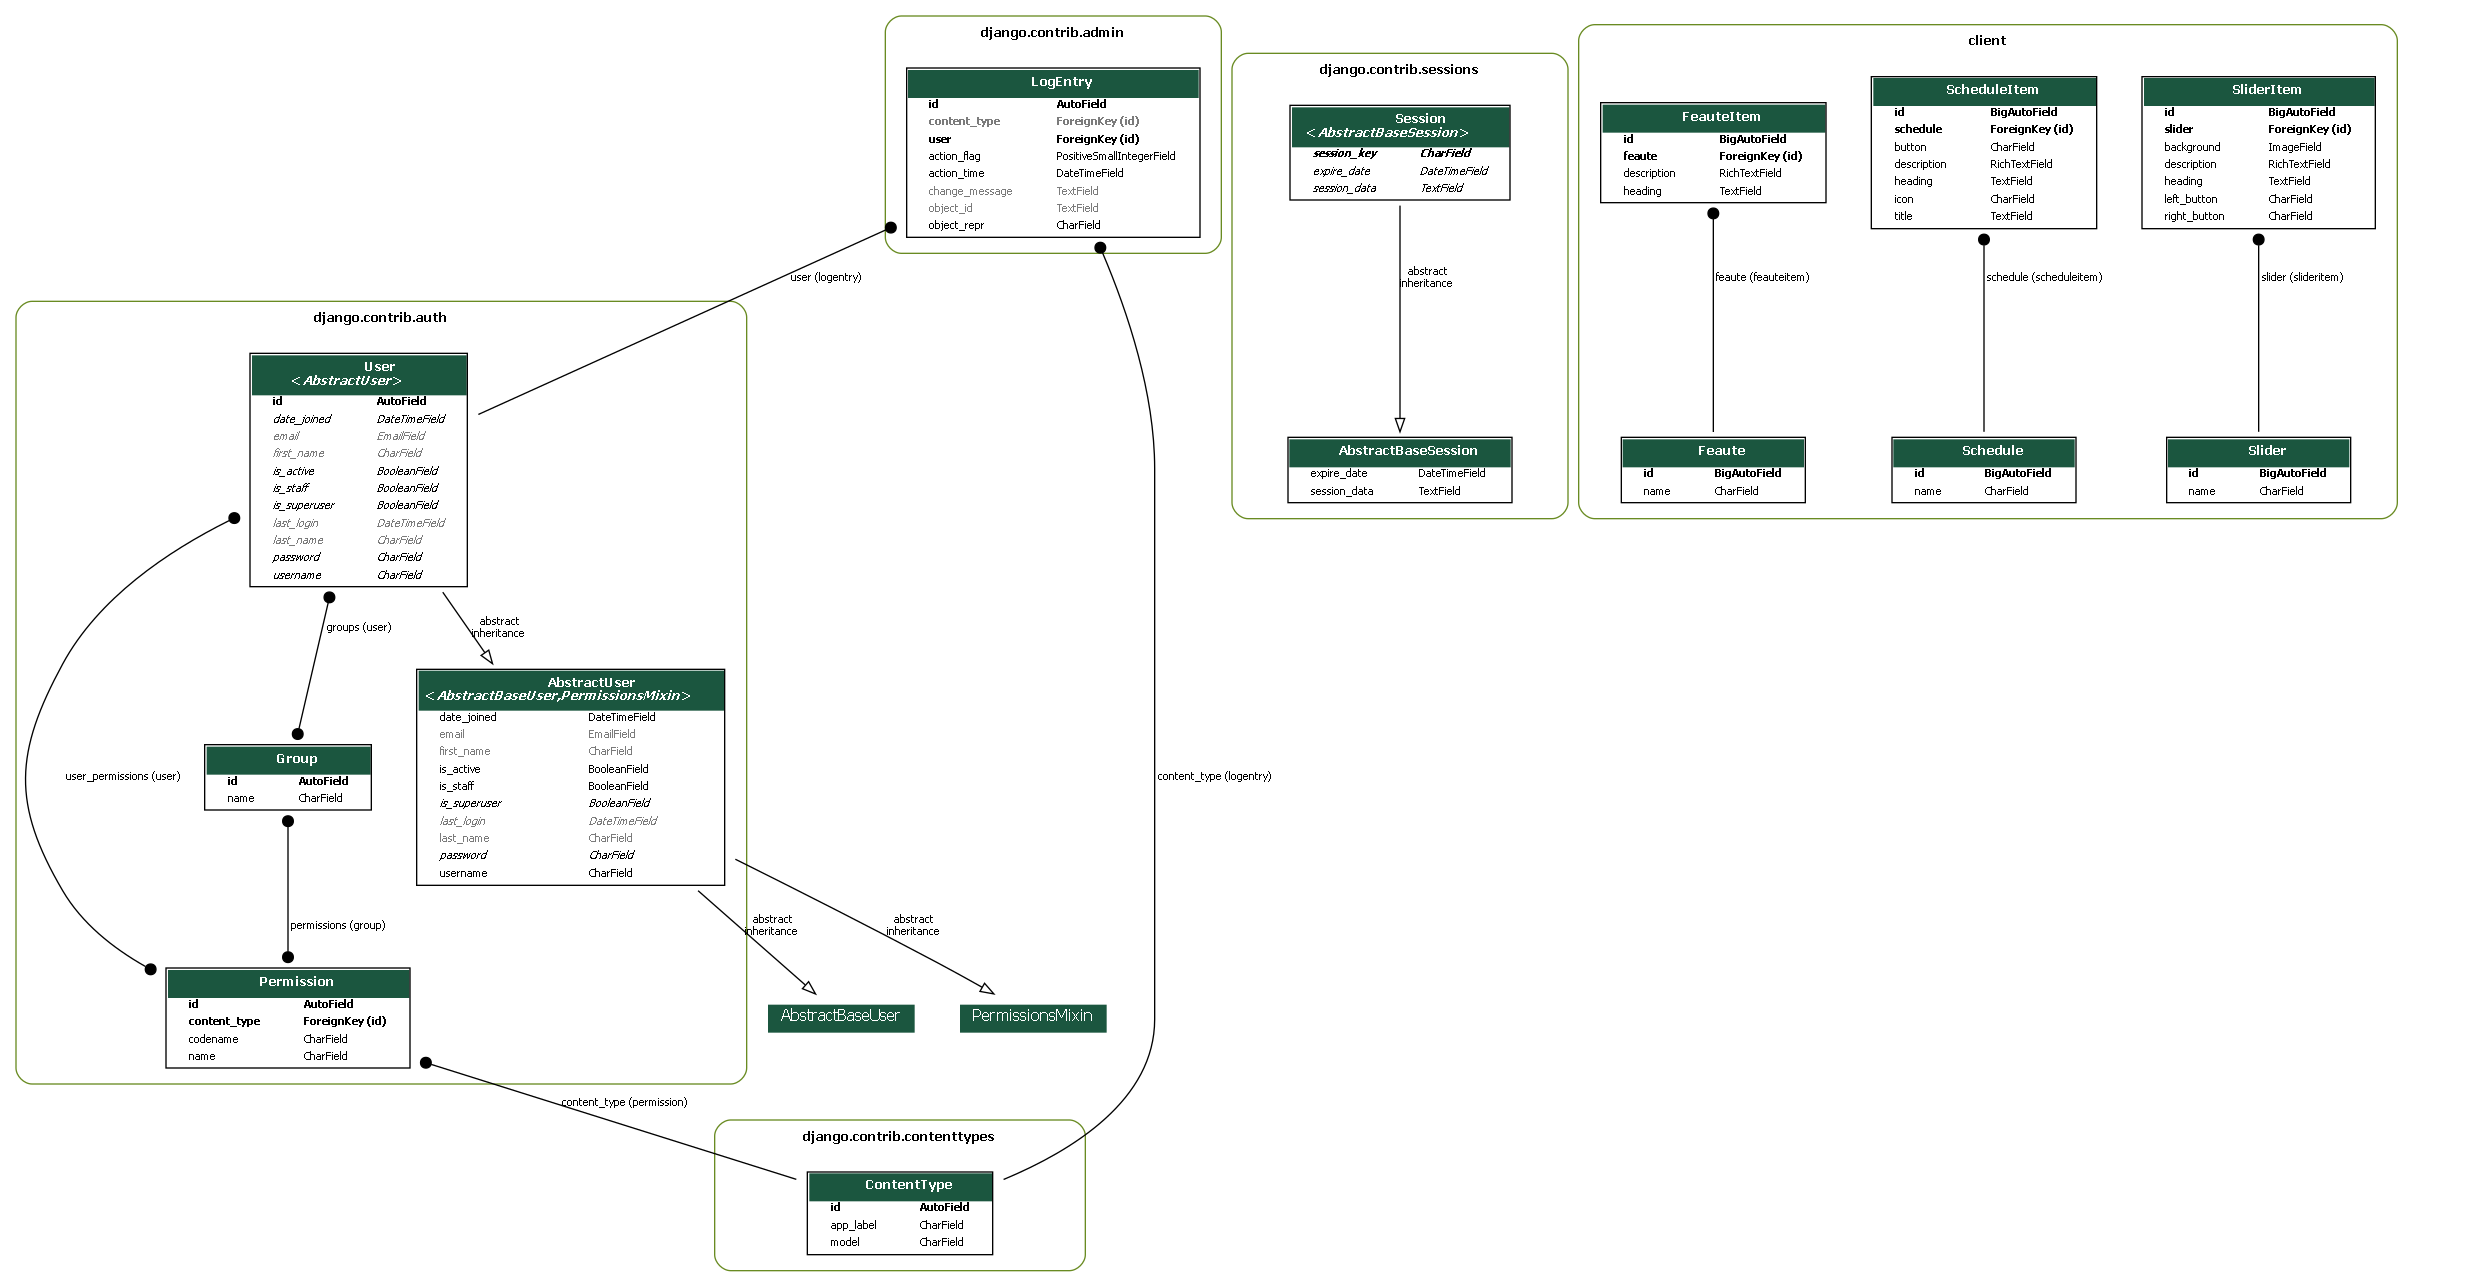
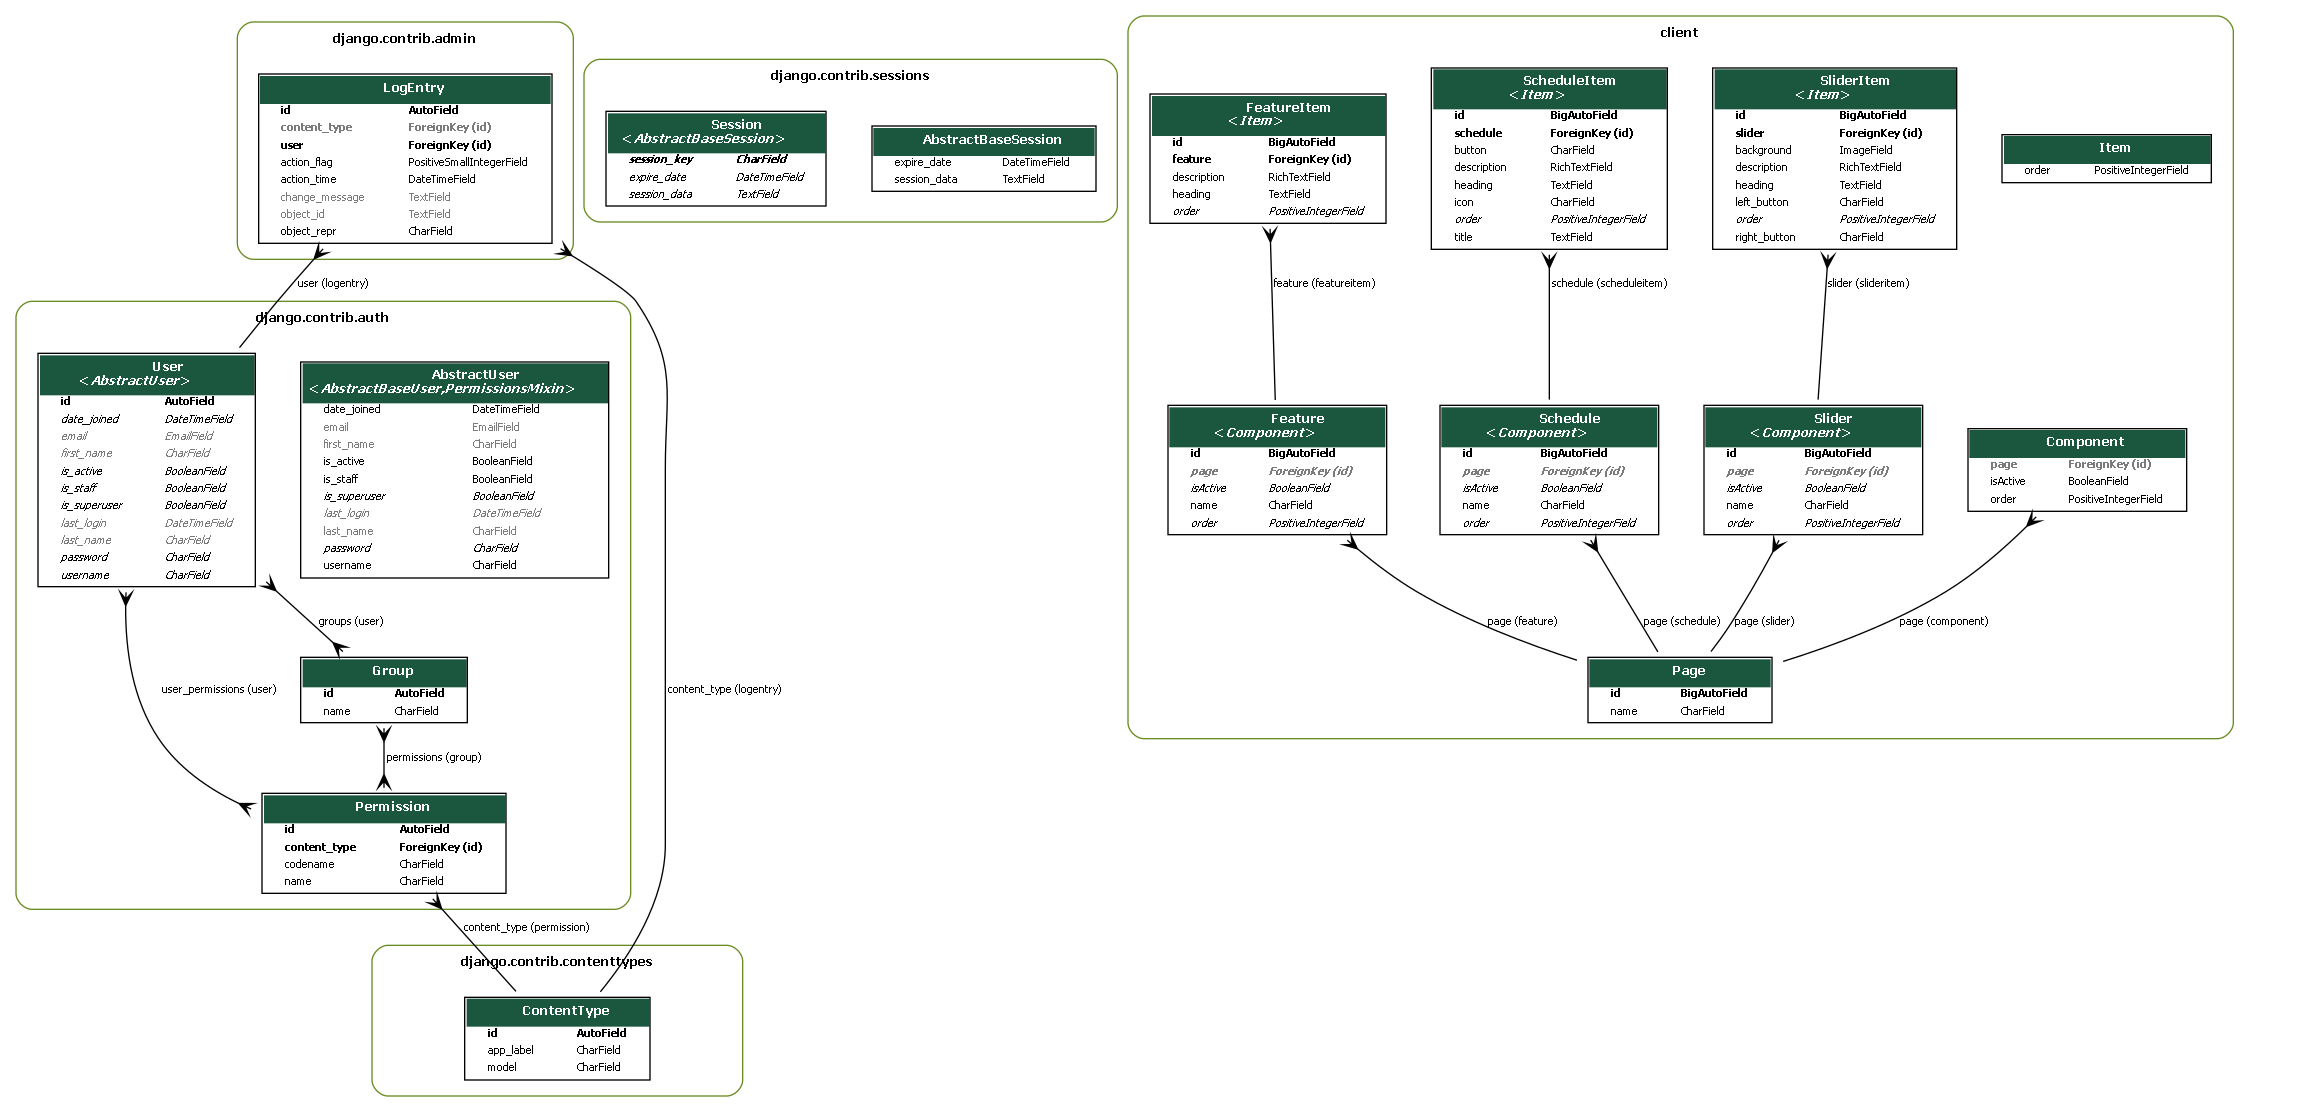
inheritance fixed, order added

diff --git a/apps/templates/home/component.html b/apps/templates/home/component.html
@@ -6,7 +6,10 @@
     <div class="card-header border-0">
       <div class="d-flex justify-content-between">
         <h3 class="mb-0">{{component_name}} </h3>
-        <a href="{% url 'add_object_admin' child_model %}" class="btn btn-sm btn-neutral {% if not save_to_add %} d-none {% endif %}">New</a>
+        <div class="d-flex justify-content-end">
+          <a href="{% url 'edit_object_admin' component_name.class_name component_name.pk %}" class="btn btn-sm btn-neutral"> Edit </a>
+          <a href="{% url 'add_object_admin' child_model %}" class="btn btn-sm btn-neutral {% if not save_to_add %} d-none {% endif %}">New</a>
+         </div>
       </div>
     </div>
     <!-- Light table -->
@@ -30,7 +33,7 @@
                   <td>
                     <a href="{% url 'edit_object_admin' item.class_name item.pk %}" class="mr-1"> {{index}} </a>
                   </td>
-                {% elif field.get_internal_type == 'TextField' or field.get_internal_type == 'CharField' %}
+                {% elif field.get_internal_type == 'TextField' or field.get_internal_type == 'CharField' or field.get_internal_type == 'PositiveIntegerField'%}
                   <td class="text-wrap">{{ item|get_attribute:field.name|safe }}</td>
                 {% elif field.get_internal_type == 'FileField' %}
                   <td>

diff --git a/client/templates/components/schedule.html b/client/templates/components/schedule.html
@@ -15,7 +15,7 @@
               <div class="single-content">
                 <span>{{schedule.heading}}</span>
                 <h4>{{schedule.title}}</h4>
-                <p>{{schedule.description}}</p>
+                <p>{{schedule.description|safe}}</p>
                 <a href="#">{{schedule.button}}<i class="fa fa-long-arrow-right"></i></a>
               </div>
             </div>

diff --git a/client/models.py b/client/models.py
@@ -10,14 +10,17 @@ class Page(models.Model):
         return self.name
 
 
-class Component:
+class Component(models.Model):
     isComponent = True
     maxItems = 0
+    order = models.PositiveIntegerField(default=0)
     isActive = models.BooleanField(default=True)
-    page = models.ForeignKey(Page, on_delete=models.CASCADE)
+    page = models.ForeignKey(Page, on_delete=models.CASCADE, blank=True, null=True)
+    class Meta:
+        abstract = True
 
     def get_children(self):
-        return getattr(self, self.childModel.lower() + '_set').all()
+        return getattr(self, self.childModel.lower() + '_set').all().order_by('order')
 
     def get_children_fields(self):
         model_class = apps.get_model(
@@ -29,6 +32,13 @@ class Component:
         
     def is_safe_to_add_new(self):
         return self.maxItems == 0 or getattr(self, self.childModel.lower() + '_set').count() < self.maxItems
+    
+class Item(models.Model):
+    isItem = True
+    order = models.PositiveIntegerField(default=0)
+
+    class Meta:
+        abstract = True
 
 
 
@@ -40,7 +50,7 @@ class Model:
         return self._meta.get_fields()
 
 
-class Slider(models.Model, Component, Model):
+class Slider(Component, Model):
     name = models.CharField(max_length=100)
     childModel = 'SliderItem'
 
@@ -48,7 +58,7 @@ class Slider(models.Model, Component, Model):
         return self.name
 
 
-class SliderItem(models.Model, Model):
+class SliderItem(Item, Model):
     heading = models.TextField()
     description = RichTextField()
     left_button = models.CharField(max_length=200)
@@ -60,7 +70,7 @@ class SliderItem(models.Model, Model):
         return self.heading
 
 
-class Schedule(models.Model, Component, Model):
+class Schedule(Component, Model):
     name = models.CharField(max_length=100)
     childModel = 'ScheduleItem'
     maxItems = 3
@@ -69,7 +79,7 @@ class Schedule(models.Model, Component, Model):
         return self.name
 
 
-class ScheduleItem(models.Model, Model):
+class ScheduleItem(Item, Model):
     title = models.TextField()
     heading = models.TextField()
     description = RichTextField()
@@ -81,7 +91,7 @@ class ScheduleItem(models.Model, Model):
         return self.heading
 
 
-class Feature(models.Model, Component, Model):
+class Feature(Component, Model):
     name = models.CharField(max_length=100)
     childModel = 'FeatureItem'
     maxItems = 1
@@ -90,7 +100,7 @@ class Feature(models.Model, Component, Model):
         return self.name
     
     
-class FeatureItem(models.Model, Model):
+class FeatureItem(Item, Model):
     heading = models.TextField()
     description = RichTextField()
     feature= models.ForeignKey(Feature, on_delete=models.CASCADE)

diff --git a/client/migrations/0009_auto_20231111_1413.py b/client/migrations/0009_auto_20231111_1413.py
@@ -1,0 +1,74 @@
+# Generated by Django 3.2.6 on 2023-11-11 13:13
+
+from django.db import migrations, models
+import django.db.models.deletion
+
+
+class Migration(migrations.Migration):
+
+    dependencies = [
+        ('client', '0008_auto_20231108_1750'),
+    ]
+
+    operations = [
+        migrations.AddField(
+            model_name='feature',
+            name='isActive',
+            field=models.BooleanField(default=True),
+        ),
+        migrations.AddField(
+            model_name='feature',
+            name='order',
+            field=models.PositiveIntegerField(default=0),
+        ),
+        migrations.AddField(
+            model_name='feature',
+            name='page',
+            field=models.ForeignKey(blank=True, null=True, on_delete=django.db.models.deletion.CASCADE, to='client.page'),
+        ),
+        migrations.AddField(
+            model_name='featureitem',
+            name='order',
+            field=models.PositiveIntegerField(default=0),
+        ),
+        migrations.AddField(
+            model_name='schedule',
+            name='isActive',
+            field=models.BooleanField(default=True),
+        ),
+        migrations.AddField(
+            model_name='schedule',
+            name='order',
+            field=models.PositiveIntegerField(default=0),
+        ),
+        migrations.AddField(
+            model_name='schedule',
+            name='page',
+            field=models.ForeignKey(blank=True, null=True, on_delete=django.db.models.deletion.CASCADE, to='client.page'),
+        ),
+        migrations.AddField(
+            model_name='scheduleitem',
+            name='order',
+            field=models.PositiveIntegerField(default=0),
+        ),
+        migrations.AddField(
+            model_name='slider',
+            name='isActive',
+            field=models.BooleanField(default=True),
+        ),
+        migrations.AddField(
+            model_name='slider',
+            name='order',
+            field=models.PositiveIntegerField(default=0),
+        ),
+        migrations.AddField(
+            model_name='slider',
+            name='page',
+            field=models.ForeignKey(blank=True, null=True, on_delete=django.db.models.deletion.CASCADE, to='client.page'),
+        ),
+        migrations.AddField(
+            model_name='slideritem',
+            name='order',
+            field=models.PositiveIntegerField(default=0),
+        ),
+    ]

diff --git a/client/views.py b/client/views.py
@@ -8,12 +8,12 @@ def home_view(request):
     feature, _ = Feature.objects.get_or_create(name="Feature")
     # funFacts, _ = FunFacts.objects.get_or_create(name="FunFacts")
 
-    slider_items = slider.slideritem_set.all()
-    schedule_items = schedule.scheduleitem_set.all()
-    feature_items = feature.featureitem_set.all()
+    slider_items = slider.slideritem_set.all().order_by('order')
+    schedule_items = schedule.scheduleitem_set.all().order_by('order')
+    feature_items = feature.featureitem_set.all().order_by('order')
     # funFacts_items = funFacts.funfactsitem_set.all()
 
-    return render(request, 'index.html', {'slides': slider_items, 'schedules': schedule_items, 'feature':feature_items})
+    return render(request, 'index.html', {'slides': slider_items, 'schedules': schedule_items, 'features':feature_items})
 
 
 def error_view(request):

diff --git a/client/migrations/0003_schedule_scheduleitem.py b/client/migrations/0003_schedule_scheduleitem.py
@@ -18,7 +18,7 @@ class Migration(migrations.Migration):
                 ('id', models.BigAutoField(auto_created=True, primary_key=True, serialize=False, verbose_name='ID')),
                 ('name', models.CharField(max_length=100)),
             ],
-            bases=(models.Model, client.models.Component, client.models.Model),
+            bases=(client.models.Component, client.models.Model),
         ),
         migrations.CreateModel(
             name='ScheduleItem',

diff --git a/client/migrations/0006_feaute_feauteitem.py b/client/migrations/0006_feaute_feauteitem.py
@@ -19,7 +19,7 @@ class Migration(migrations.Migration):
                 ('id', models.BigAutoField(auto_created=True, primary_key=True, serialize=False, verbose_name='ID')),
                 ('name', models.CharField(max_length=100)),
             ],
-            bases=(models.Model, client.models.Component, client.models.Model),
+            bases=(client.models.Component, client.models.Model),
         ),
         migrations.CreateModel(
             name='FeauteItem',
